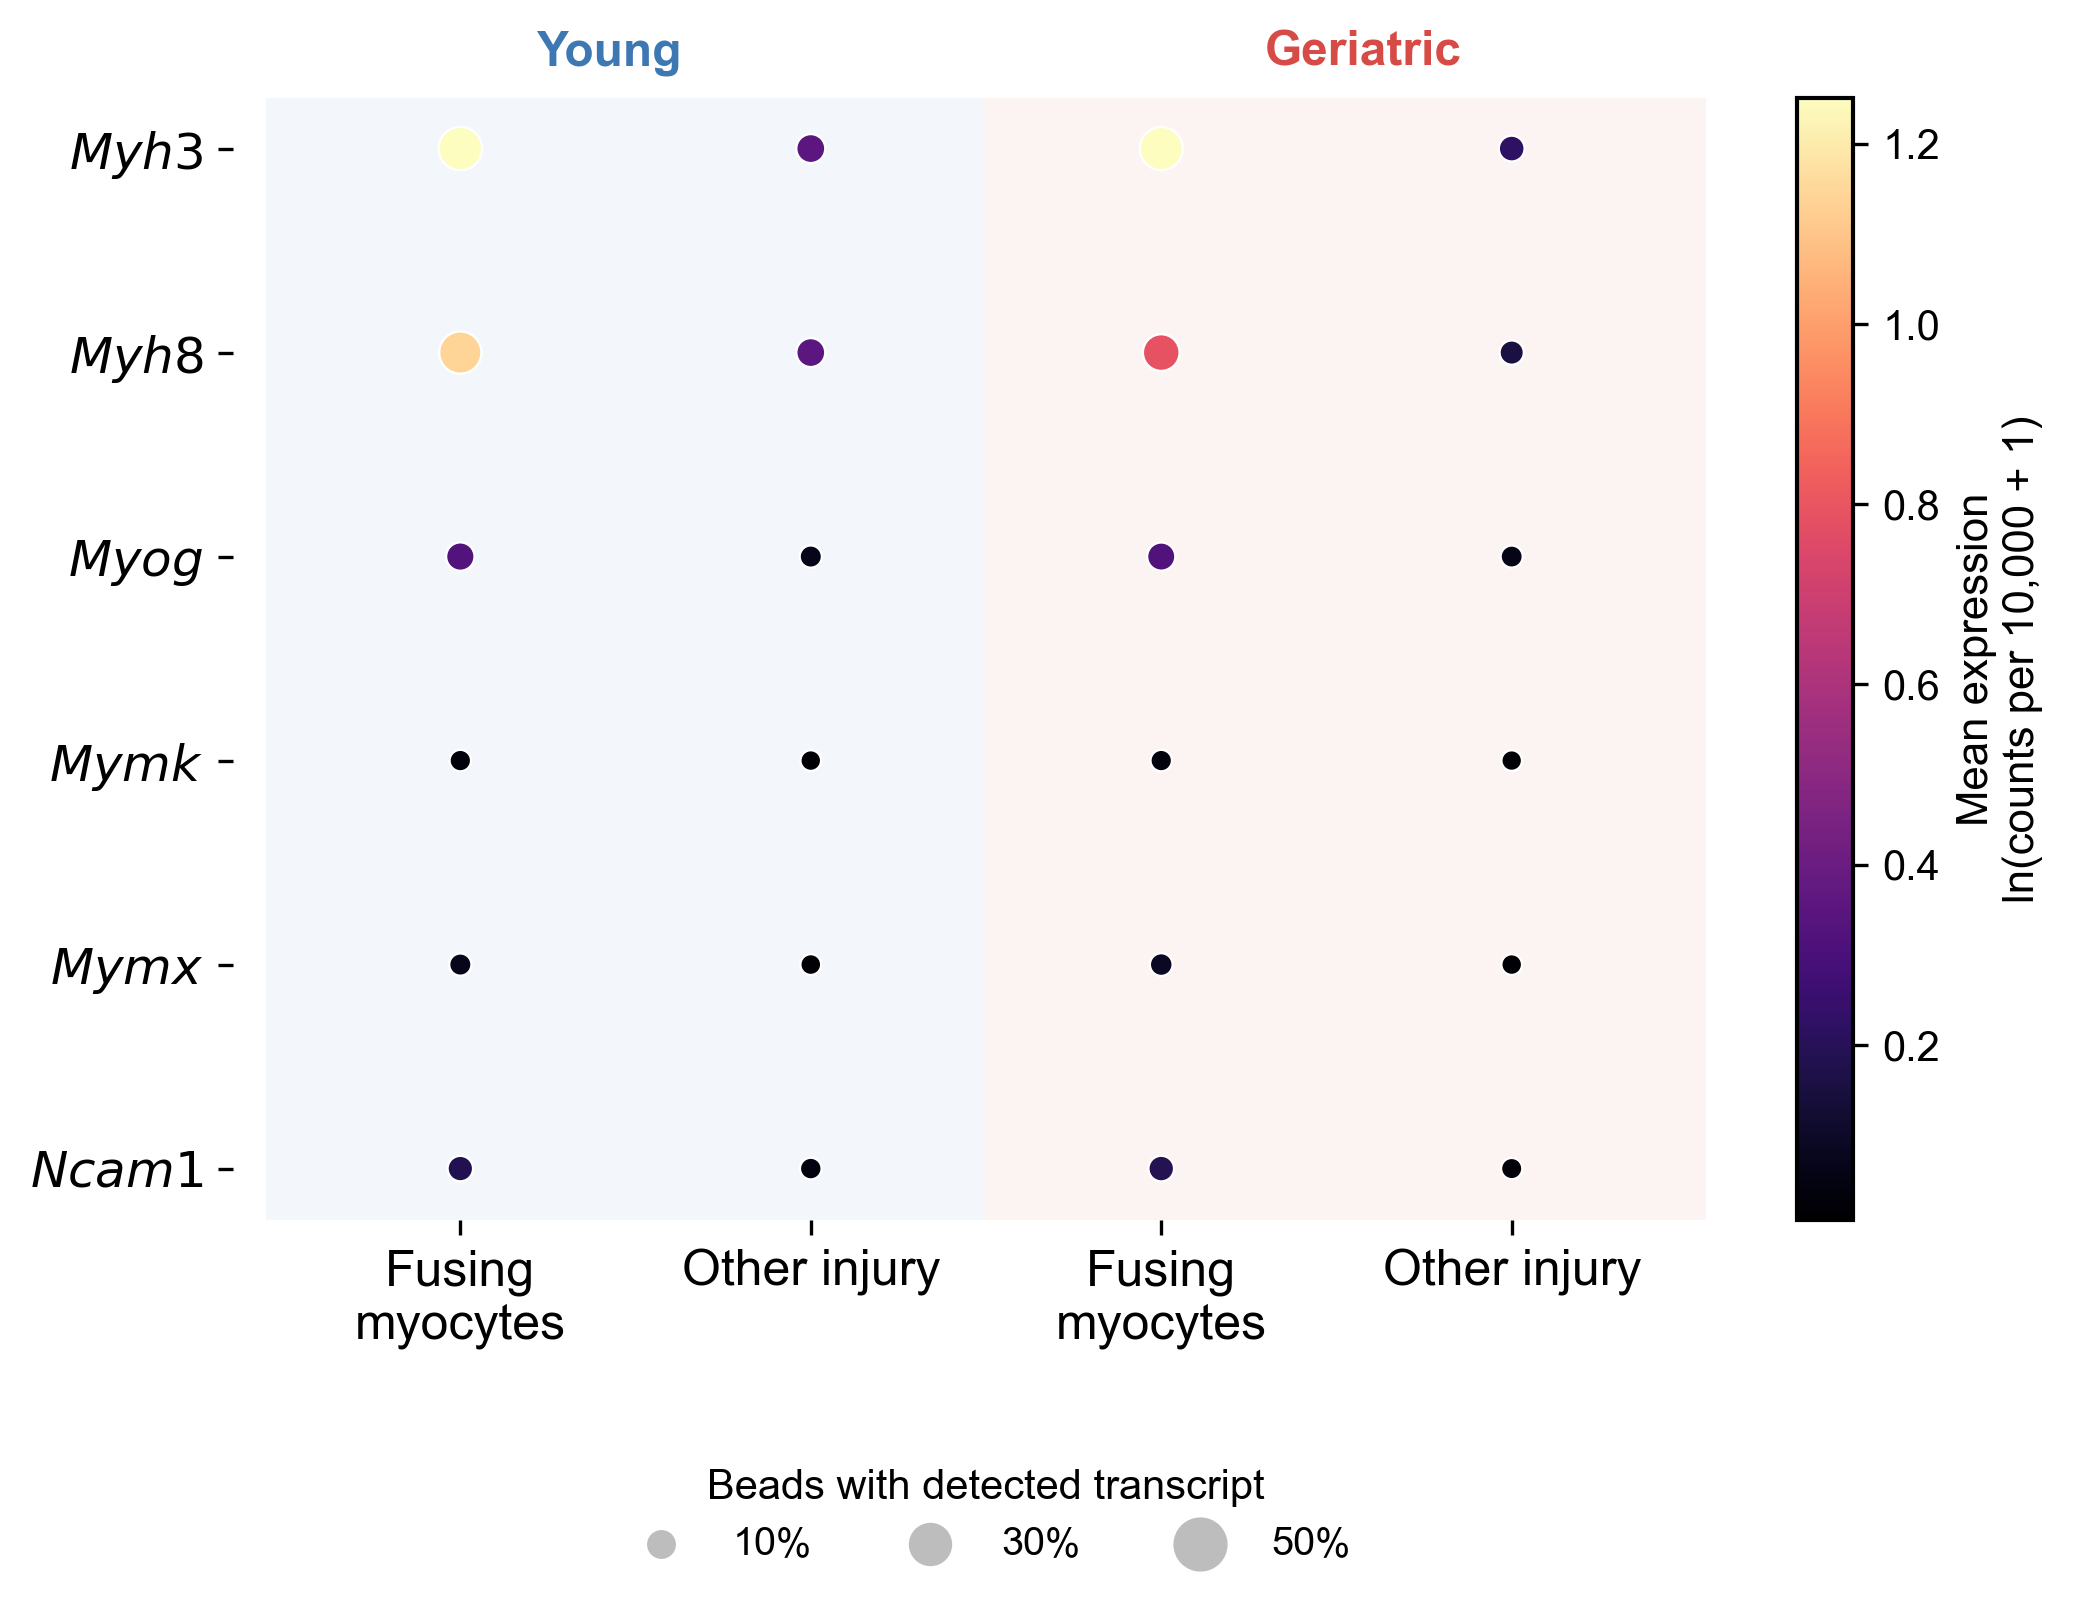
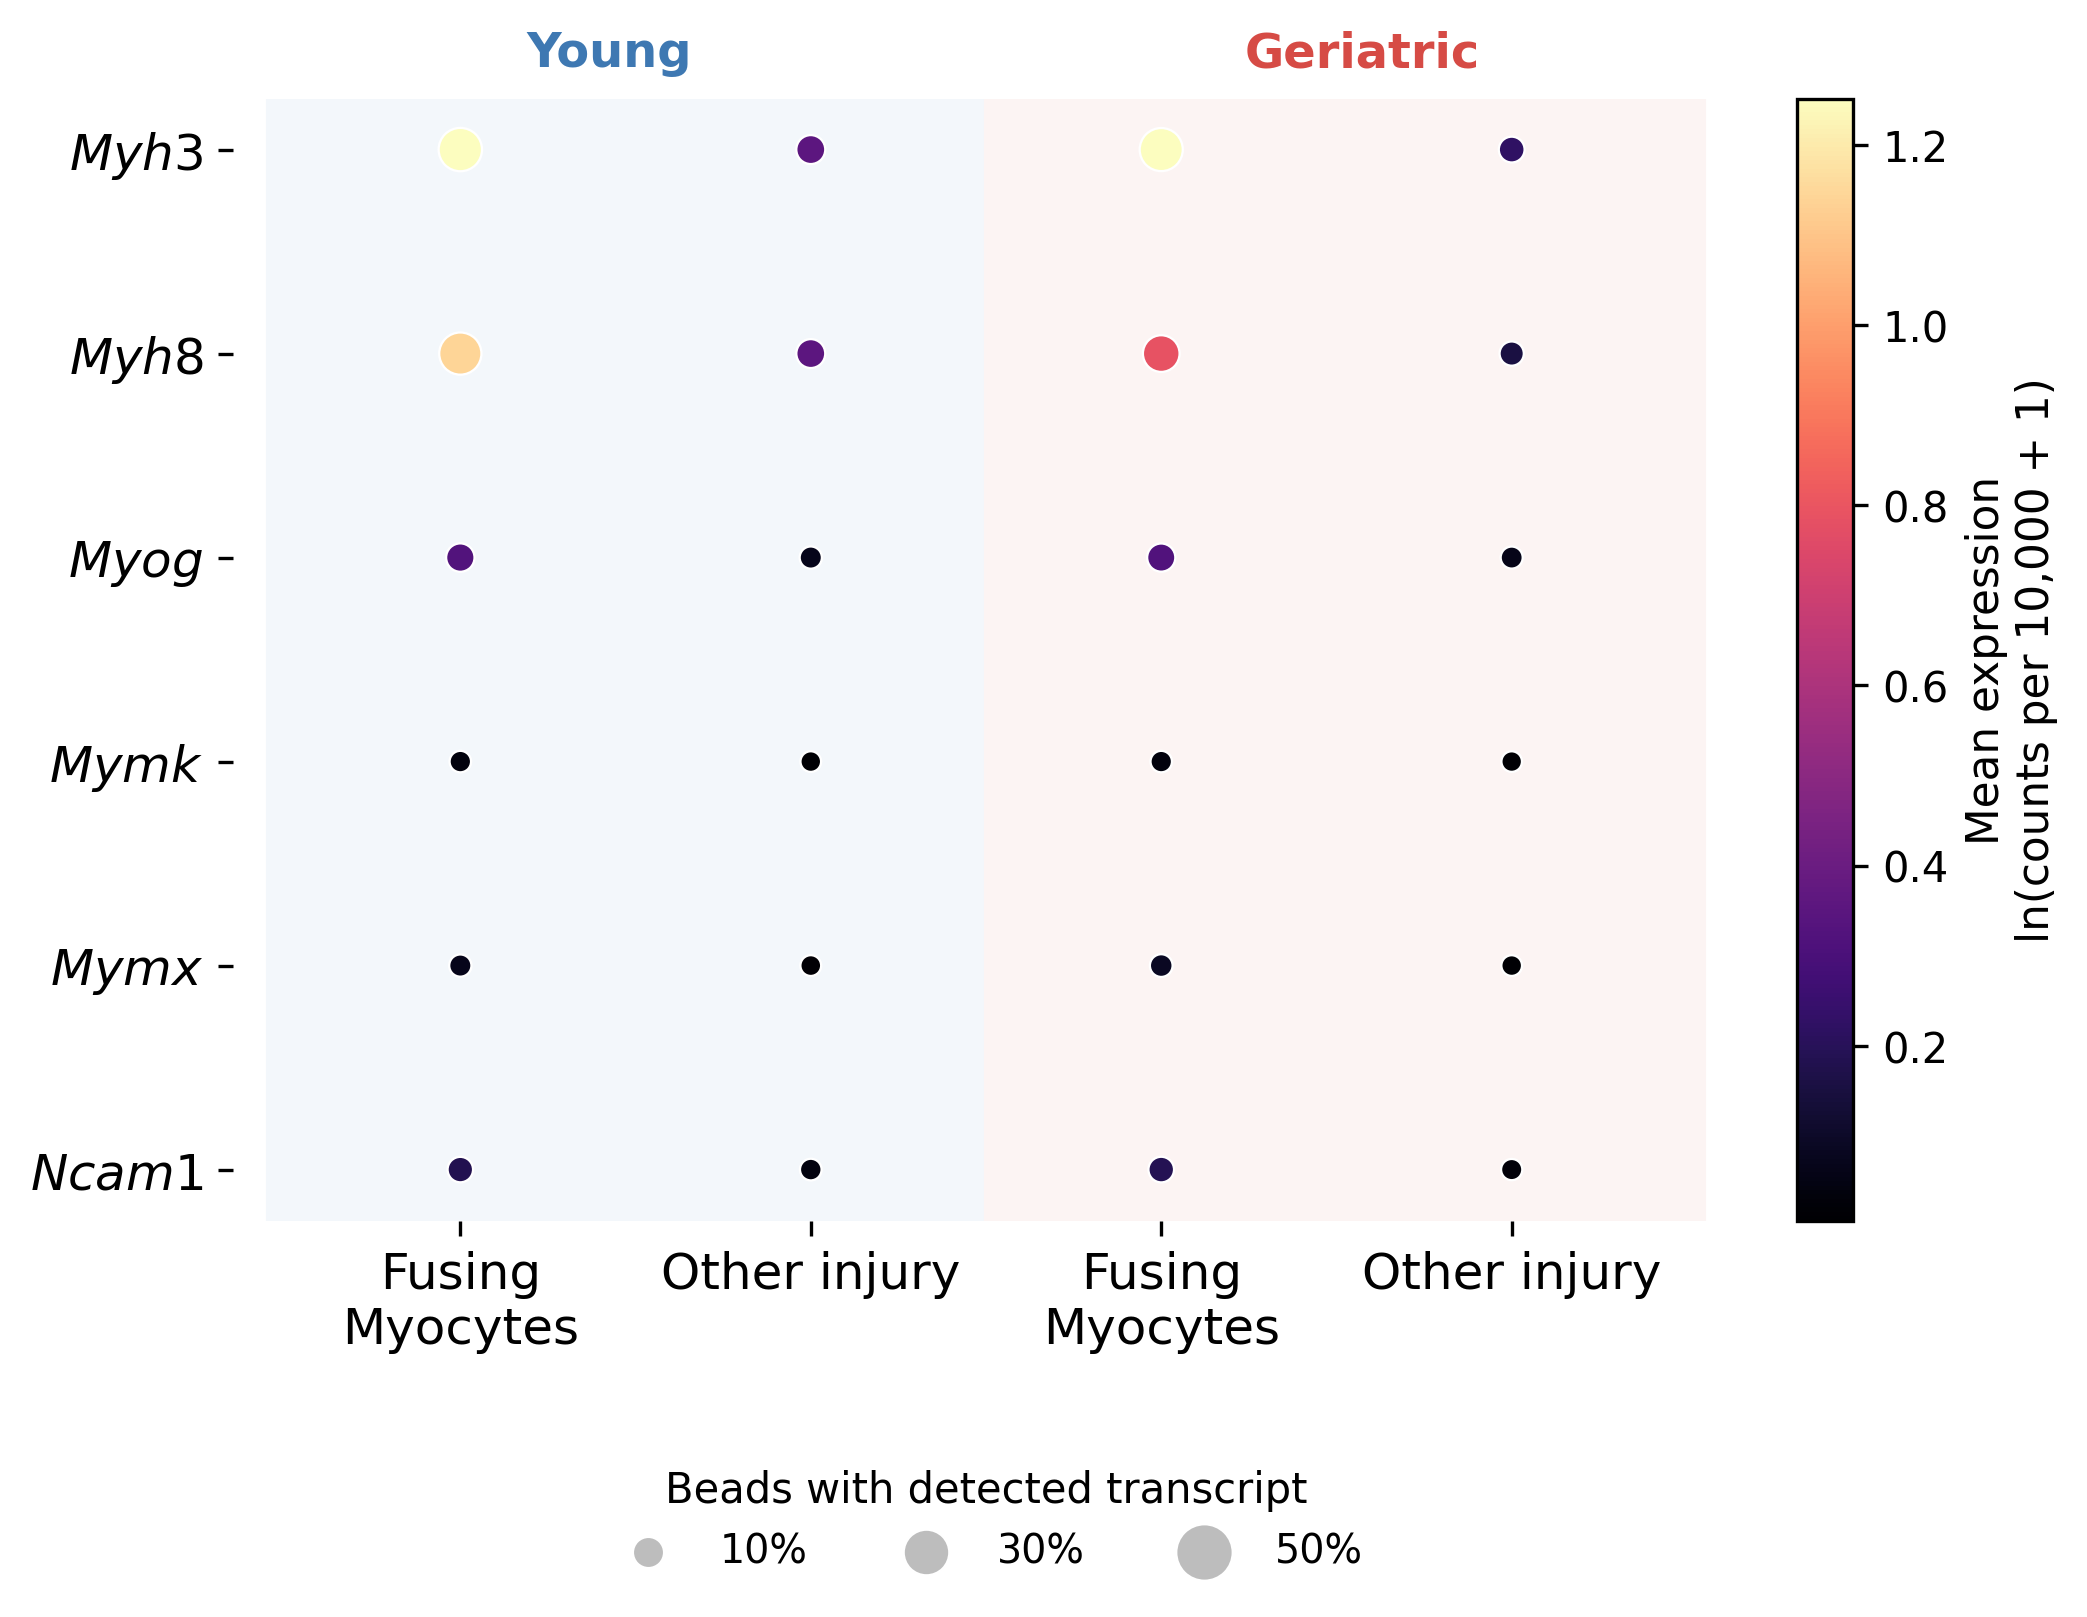
Match deposited cell-label capitalization

diff --git a/code/run_spatial_analysis.py b/code/run_spatial_analysis.py
@@ -634,7 +634,7 @@ def plot_marker_audit(table: pd.DataFrame, output: Path):
         c=plot["mean_expression"], cmap="magma", edgecolors="white", linewidths=0.55,
         zorder=3,
     )
-    ax.set_xticks(range(4), ["Fusing\nmyocytes", "Other injury", "Fusing\nmyocytes", "Other injury"])
+    ax.set_xticks(range(4), ["Fusing\nMyocytes", "Other injury", "Fusing\nMyocytes", "Other injury"])
     ax.set_yticks(range(len(genes)), [rf"$\it{{{gene}}}$" for gene in genes])
     ax.invert_yaxis()
     ax.set_xlim(-0.65, 3.65)
